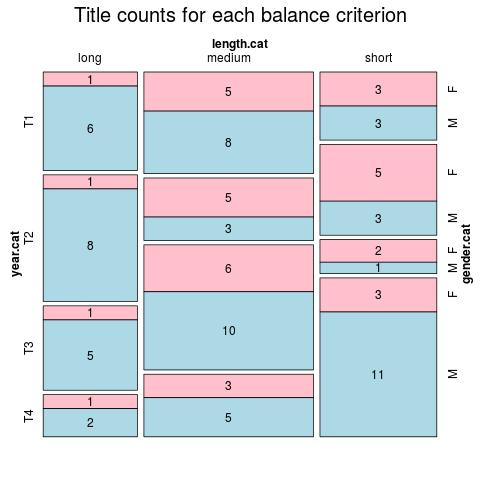
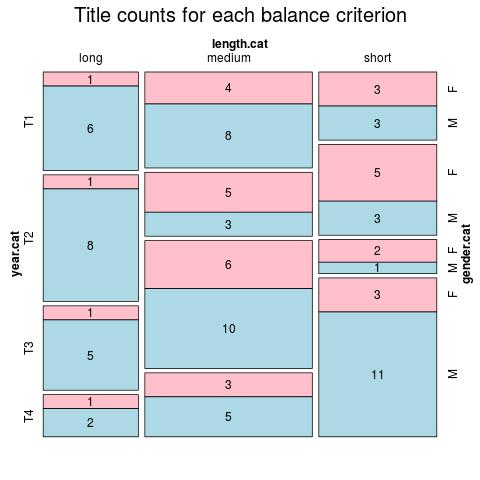
100 French texts!

diff --git a/ELTeC/fra/index.html b/ELTeC/fra/index.html
@@ -5,7 +5,7 @@
       <title>Contents of ELTeC-fra</title>
    </head>
    <body>
-      <h4>On 2020-04-11 fra has 101 texts containing 7834336 words</h4>
+      <h4>On 2020-04-11 fra has 100 texts containing 7789569 words</h4>
       <p class="graphic"><img src="mosaic.png"><input type="button" value="Explainer" onclick="window.open('../explainer.html','popUpWindow',         'height=600,width=500,left=100,top=100,resizable=yes,         scrollbars=yes,toolbar=no,menubar=no,location=no,directories=no, status=yes');"></p>
       <p class="explain">Click on a column heading to sort. Click on a text identifier to
          read the text (may not work in older browsers).
@@ -180,18 +180,6 @@
             </td>
             <td>F</td>
             <td></td>
-         </tr>
-         <tr>
-            <td><a href="FRA00802.html">FRA00802</a></td>
-            <td>eltec-1</td>
-            <td>332</td>
-            <td>44767</td>
-            <td>(medium)  !!</td>
-            <td>1843 (T1) </td>
-            <td>Le château de Pinon I</td>
-            <td>Comtesse Dash (1804-1872)</td>
-            <td>F</td>
-            <td>low</td>
          </tr>
          <tr>
             <td><a href="FRA00901.html">FRA00901</a></td>
